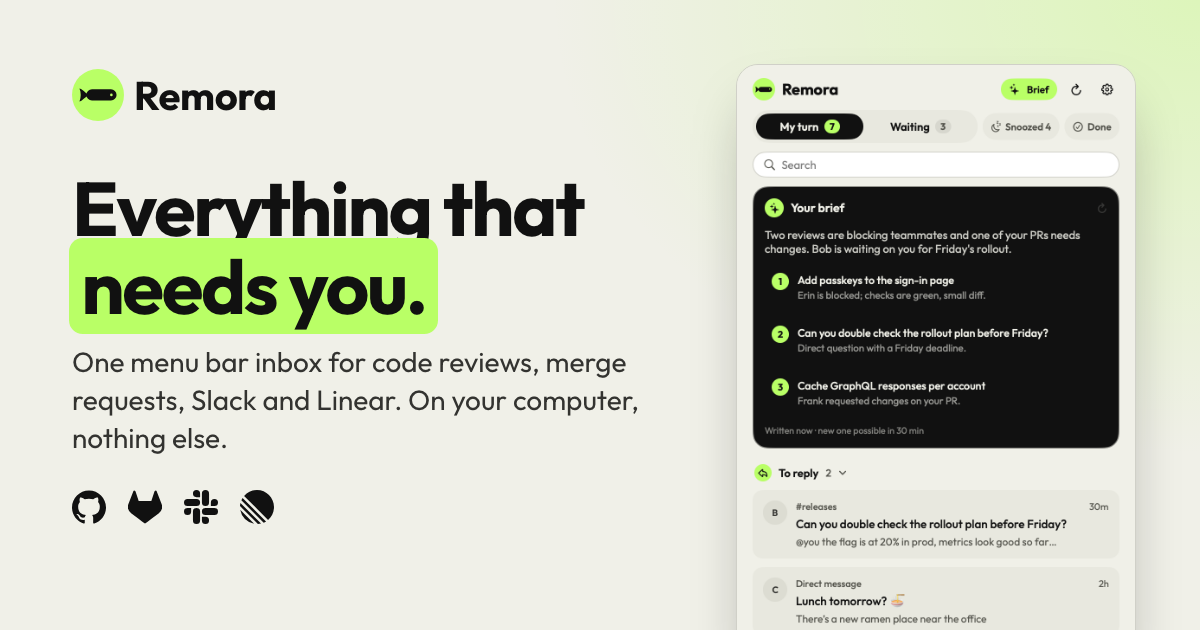
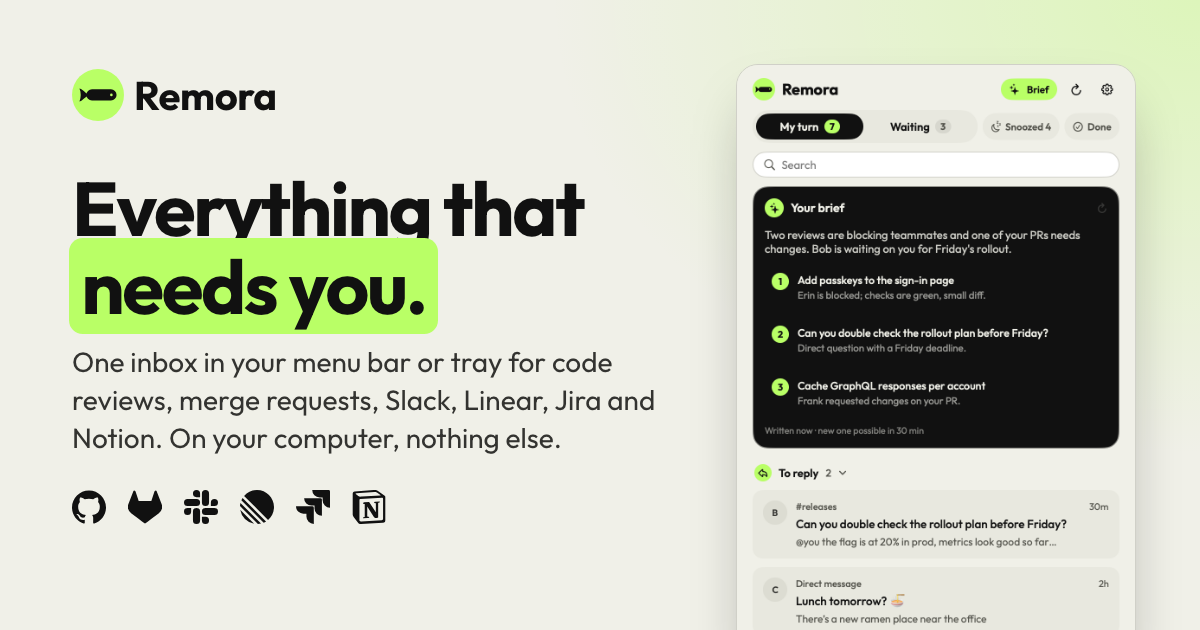
docs(site): the headline copy names all six tools, Jira and Notion included, and Linux (MKT-03)
Titles, meta descriptions, the hero, the facts strip ("6 tools"), llms.txt (with a Linux link), the social
cards (text, and the Jira and Notion logos, re-rendered), the docs' default description and home, and the
Windows installer's description said "GitHub, GitLab, Slack and Linear" and Mac or Windows only. One phrase
per language in build.py (WHAT, TOOLS) now feeds the site's copy. The docs sidebar calls the assistant "The
assistant": it also takes OpenAI-compatible servers.

Changed region(s): [[0.0617, 0.5429, 0.555, 0.7238], [0.2467, 0.754, 0.3392, 0.8444]]

diff --git a/site/public/fr/index.html b/site/public/fr/index.html
@@ -3,8 +3,8 @@
   <head>
     <meta charset="utf-8" />
     <meta name="viewport" content="width=device-width, initial-scale=1" />
-    <title>Remora — Boîte de réception GitHub, GitLab, Slack et Linear pour Mac et Windows</title>
-    <meta name="description" content="Relectures de code, merge requests, mentions Slack et tickets Linear dans une seule boîte, dans la barre des menus du Mac ou la zone de notification de Windows. Gratuit, open source, sans compte." />
+    <title>Remora — Une seule boîte pour GitHub, GitLab, Slack, Linear, Jira et Notion</title>
+    <meta name="description" content="Relectures de code, merge requests, mentions slack, tickets linear et jira et tâches notion dans une seule boîte, dans la barre des menus du Mac ou la zone de notification de Windows et Linux. Gratuit, open source, sans compte." />
     <link rel="canonical" href="https://triage.iscor.me/fr/" />
     <link rel="alternate" hreflang="fr" href="https://triage.iscor.me/fr/" />
     <link rel="alternate" hreflang="en" href="https://triage.iscor.me/en/" />
@@ -23,15 +23,15 @@
     <meta property="og:locale" content="fr_FR" />
     <meta property="og:locale:alternate" content="en_US" />
     <meta property="og:url" content="https://triage.iscor.me/fr/" />
-    <meta property="og:title" content="Remora — Boîte de réception GitHub, GitLab, Slack et Linear pour Mac et Windows" />
-    <meta property="og:description" content="Relectures de code, merge requests, mentions Slack et tickets Linear dans une seule boîte, dans la barre des menus du Mac ou la zone de notification de Windows. Gratuit, open source, sans compte." />
+    <meta property="og:title" content="Remora — Une seule boîte pour GitHub, GitLab, Slack, Linear, Jira et Notion" />
+    <meta property="og:description" content="Relectures de code, merge requests, mentions slack, tickets linear et jira et tâches notion dans une seule boîte, dans la barre des menus du Mac ou la zone de notification de Windows et Linux. Gratuit, open source, sans compte." />
     <meta property="og:image" content="https://triage.iscor.me/site/og.fr.png" />
     <meta property="og:image:width" content="1200" />
     <meta property="og:image:height" content="630" />
-    <meta property="og:image:alt" content="Remora : tout ce qui a besoin de vous, dans la barre des menus du Mac. La boîte avec réponses, relectures et tâches rangées par ce qu’il faut faire." />
+    <meta property="og:image:alt" content="Remora : tout ce qui a besoin de vous, dans la barre des menus ou la zone de notification. Une seule boîte pour relectures, merge requests, Slack, Linear, Jira et Notion, sur votre ordinateur." />
     <meta name="twitter:card" content="summary_large_image" />
-    <meta name="twitter:title" content="Remora — Boîte de réception GitHub, GitLab, Slack et Linear pour Mac et Windows" />
-    <meta name="twitter:description" content="Relectures de code, merge requests, mentions Slack et tickets Linear dans une seule boîte, dans la barre des menus du Mac ou la zone de notification de Windows. Gratuit, open source, sans compte." />
+    <meta name="twitter:title" content="Remora — Une seule boîte pour GitHub, GitLab, Slack, Linear, Jira et Notion" />
+    <meta name="twitter:description" content="Relectures de code, merge requests, mentions slack, tickets linear et jira et tâches notion dans une seule boîte, dans la barre des menus du Mac ou la zone de notification de Windows et Linux. Gratuit, open source, sans compte." />
     <meta name="twitter:image" content="https://triage.iscor.me/site/og.fr.png" />
     <script src="/site/site.js" defer></script>
     <script type="application/ld+json">
@@ -40,7 +40,7 @@
   "@type": "SoftwareApplication",
   "name": "Remora",
   "url": "https://triage.iscor.me/fr/",
-  "description": "Remora est une boîte de réception dans la barre des menus du Mac ou la zone de notification de Windows : relectures de code, merge requests, mentions Slack et tickets Linear, rangés par ce que vous avez à faire. Sur l’appareil, sans compte, seulement les outils autorisés.",
+  "description": "Remora est une boîte de réception dans la barre des menus du Mac ou la zone de notification de Windows et Linux : relectures de code, merge requests, mentions Slack, tickets Linear et Jira et tâches Notion, rangés par ce que vous avez à faire. Sur l’appareil, sans compte, seulement les outils autorisés.",
   "applicationCategory": "BusinessApplication",
   "applicationSubCategory": "Productivity",
   "operatingSystem": "macOS 14 or later, Windows 10 or 11, Linux",
@@ -150,7 +150,7 @@
           <div>
             <span class="eyebrow">Barre des menus · macOS · Windows</span>
             <h1 id="hero-title">Tout ce qui a<br /><span class="mark">besoin de vous.</span></h1>
-            <p class="lead">Rien de plus. Relectures de code, vos merge requests, mentions Slack et tickets Linear, dans une seule boîte de réception, dans la barre des menus ou la zone de notification. Rangés par ce que vous avez à faire, pas par leur provenance.</p>
+            <p class="lead">Rien de plus. Relectures de code, vos merge requests, mentions Slack, tickets Linear et Jira et tâches Notion, dans une seule boîte de réception, dans la barre des menus ou la zone de notification. Rangés par ce que vous avez à faire, pas par leur provenance.</p>
             <div class="ctas"><a class="btn btn-primary btn-lg" href="https://github.com/iGitScor/triage/releases/latest/download/Remora.dmg" data-download="mac">Télécharger pour Mac <svg width="20" height="20" viewBox="0 0 24 24" fill="none" stroke="currentColor" stroke-width="2" stroke-linecap="round" stroke-linejoin="round" aria-hidden="true"><path d="M12 3v14M7 12l5 5 5-5M5 21h14"/></svg></a><a class="btn btn-secondary btn-lg" href="https://github.com/iGitScor/triage/releases/latest/download/Remora-Setup.exe" data-download="windows">Télécharger pour Windows</a></div>
             <p class="cta-note">Gratuit et open source, sans compte. Mac : macOS 14 ou ultérieur ; la première fois, clic droit sur Remora → Ouvrir. Windows 10 ou 11, en aperçu : si SmartScreen prévient, Informations complémentaires → Exécuter quand même. Linux, en aperçu : AppImage ou .deb sur la page des versions.</p>
             <p class="notice"><svg width="18" height="18" viewBox="0 0 24 24" fill="none" stroke="currentColor" stroke-width="2" stroke-linecap="round" stroke-linejoin="round" aria-hidden="true"><circle cx="12" cy="12" r="9"/><path d="M12 11v5M12 8h.01"/></svg><span>Remora parle français et anglais, tout comme le tri sur l’appareil.</span></p>
@@ -167,7 +167,7 @@
       </section>
 
       <section class="section-tight" aria-label="Remora">
-        <div class="wrap"><div class="facts"><div class="fact"><strong>0</strong><span>serveur, compte ou traceur de notre part</span></div><div class="fact"><strong>5</strong><span>outils : GitHub, GitLab, Slack, Linear et Notion</span></div><div class="fact"><strong>5</strong><span>éléments par verbe, le reste replié</span></div><div class="fact"><strong>100 %</strong><span>du tri et du classement faits sur votre ordinateur</span></div></div></div>
+        <div class="wrap"><div class="facts"><div class="fact"><strong>0</strong><span>serveur, compte ou traceur de notre part</span></div><div class="fact"><strong>6</strong><span>outils : GitHub, GitLab, Slack, Linear, Jira et Notion</span></div><div class="fact"><strong>5</strong><span>éléments par verbe, le reste replié</span></div><div class="fact"><strong>100 %</strong><span>du tri et du classement faits sur votre ordinateur</span></div></div></div>
       </section>
 
       <section class="section" aria-labelledby="tabs-title">

diff --git a/site/public/en/index.html b/site/public/en/index.html
@@ -3,8 +3,8 @@
   <head>
     <meta charset="utf-8" />
     <meta name="viewport" content="width=device-width, initial-scale=1" />
-    <title>Remora — Menu bar inbox for GitHub, GitLab, Slack and Linear</title>
-    <meta name="description" content="Code reviews, merge requests, Slack mentions and Linear issues in one inbox in your Mac’s menu bar or the Windows tray, sorted by what to do. Free, open source, on-device, no account." />
+    <title>Remora — One inbox for GitHub, GitLab, Slack, Linear, Jira and Notion</title>
+    <meta name="description" content="Code reviews, merge requests, slack mentions, linear and jira issues and notion tasks in one inbox in your Mac’s menu bar or the Windows and Linux tray, sorted by what to do. Free, open source, on-device, no account." />
     <link rel="canonical" href="https://triage.iscor.me/en/" />
     <link rel="alternate" hreflang="en" href="https://triage.iscor.me/en/" />
     <link rel="alternate" hreflang="fr" href="https://triage.iscor.me/fr/" />
@@ -23,15 +23,15 @@
     <meta property="og:locale" content="en_US" />
     <meta property="og:locale:alternate" content="fr_FR" />
     <meta property="og:url" content="https://triage.iscor.me/en/" />
-    <meta property="og:title" content="Remora — Menu bar inbox for GitHub, GitLab, Slack and Linear" />
-    <meta property="og:description" content="Code reviews, merge requests, Slack mentions and Linear issues in one inbox in your Mac’s menu bar or the Windows tray, sorted by what to do. Free, open source, on-device, no account." />
+    <meta property="og:title" content="Remora — One inbox for GitHub, GitLab, Slack, Linear, Jira and Notion" />
+    <meta property="og:description" content="Code reviews, merge requests, slack mentions, linear and jira issues and notion tasks in one inbox in your Mac’s menu bar or the Windows and Linux tray, sorted by what to do. Free, open source, on-device, no account." />
     <meta property="og:image" content="https://triage.iscor.me/site/og.en.png" />
     <meta property="og:image:width" content="1200" />
     <meta property="og:image:height" content="630" />
-    <meta property="og:image:alt" content="Remora: everything that needs you, in your Mac’s menu bar. The inbox with replies, reviews and tasks sorted by what to do." />
+    <meta property="og:image:alt" content="Remora: everything that needs you, in your menu bar or tray. One inbox for code reviews, merge requests, Slack, Linear, Jira and Notion, on your computer." />
     <meta name="twitter:card" content="summary_large_image" />
-    <meta name="twitter:title" content="Remora — Menu bar inbox for GitHub, GitLab, Slack and Linear" />
-    <meta name="twitter:description" content="Code reviews, merge requests, Slack mentions and Linear issues in one inbox in your Mac’s menu bar or the Windows tray, sorted by what to do. Free, open source, on-device, no account." />
+    <meta name="twitter:title" content="Remora — One inbox for GitHub, GitLab, Slack, Linear, Jira and Notion" />
+    <meta name="twitter:description" content="Code reviews, merge requests, slack mentions, linear and jira issues and notion tasks in one inbox in your Mac’s menu bar or the Windows and Linux tray, sorted by what to do. Free, open source, on-device, no account." />
     <meta name="twitter:image" content="https://triage.iscor.me/site/og.en.png" />
     <script src="/site/site.js" defer></script>
     <script type="application/ld+json">
@@ -40,7 +40,7 @@
   "@type": "SoftwareApplication",
   "name": "Remora",
   "url": "https://triage.iscor.me/en/",
-  "description": "Remora is an inbox in your Mac’s menu bar or the Windows system tray: code reviews, merge requests, Slack mentions and Linear issues, sorted by what you have to do. On-device, no account, only the tools you allow.",
+  "description": "Remora is an inbox in your Mac’s menu bar or the system tray on Windows and Linux: code reviews, merge requests, Slack mentions, Linear and Jira issues and Notion tasks, sorted by what you have to do. On-device, no account, only the tools you allow.",
   "applicationCategory": "BusinessApplication",
   "applicationSubCategory": "Productivity",
   "operatingSystem": "macOS 14 or later, Windows 10 or 11, Linux",
@@ -150,7 +150,7 @@
           <div>
             <span class="eyebrow">Menu bar inbox · macOS · Windows</span>
             <h1 id="hero-title">Everything that<br /><span class="mark">needs you.</span></h1>
-            <p class="lead">Nothing that doesn’t. Code reviews, your merge requests, Slack mentions and Linear issues, in one inbox in your menu bar or system tray. Sorted by what you have to do, not by where it came from.</p>
+            <p class="lead">Nothing that doesn’t. Code reviews, your merge requests, Slack mentions, Linear and Jira issues and Notion tasks, in one inbox in your menu bar or system tray. Sorted by what you have to do, not by where it came from.</p>
             <div class="ctas"><a class="btn btn-primary btn-lg" href="https://github.com/iGitScor/triage/releases/latest/download/Remora.dmg" data-download="mac">Download for Mac <svg width="20" height="20" viewBox="0 0 24 24" fill="none" stroke="currentColor" stroke-width="2" stroke-linecap="round" stroke-linejoin="round" aria-hidden="true"><path d="M12 3v14M7 12l5 5 5-5M5 21h14"/></svg></a><a class="btn btn-secondary btn-lg" href="https://github.com/iGitScor/triage/releases/latest/download/Remora-Setup.exe" data-download="windows">Download for Windows</a></div>
             <p class="cta-note">Free and open source, no account. Mac: macOS 14 or later; the first time, right-click Remora → Open. Windows 10 or 11, in preview: if SmartScreen warns, More info → Run anyway. Linux, in preview: AppImage or .deb on the releases page.</p>
             <p class="notice"><svg width="18" height="18" viewBox="0 0 24 24" fill="none" stroke="currentColor" stroke-width="2" stroke-linecap="round" stroke-linejoin="round" aria-hidden="true"><circle cx="12" cy="12" r="9"/><path d="M12 11v5M12 8h.01"/></svg><span>Remora speaks English and French, and so does on-device sorting.</span></p>
@@ -167,7 +167,7 @@
       </section>
 
       <section class="section-tight" aria-label="Remora">
-        <div class="wrap"><div class="facts"><div class="fact"><strong>0</strong><span>servers, accounts or trackers of ours</span></div><div class="fact"><strong>5</strong><span>tools: GitHub, GitLab, Slack, Linear and Notion</span></div><div class="fact"><strong>5</strong><span>items per verb, the rest folded away</span></div><div class="fact"><strong>100%</strong><span>of sorting and ranking done on your computer</span></div></div></div>
+        <div class="wrap"><div class="facts"><div class="fact"><strong>0</strong><span>servers, accounts or trackers of ours</span></div><div class="fact"><strong>6</strong><span>tools: GitHub, GitLab, Slack, Linear, Jira and Notion</span></div><div class="fact"><strong>5</strong><span>items per verb, the rest folded away</span></div><div class="fact"><strong>100%</strong><span>of sorting and ranking done on your computer</span></div></div></div>
       </section>
 
       <section class="section" aria-labelledby="tabs-title">

diff --git a/docs/.vitepress/config.ts b/docs/.vitepress/config.ts
@@ -17,7 +17,7 @@ const guideEn: DefaultTheme.SidebarItem[] = [
       { text: 'The inbox', link: '/guide/inbox' },
       { text: 'Snooze and reminders', link: '/guide/snooze-and-reminders' },
       { text: 'Reviews', link: '/guide/reviews' },
-      { text: 'The assistant (Claude)', link: '/guide/assistant' },
+      { text: 'The assistant', link: '/guide/assistant' },
       { text: 'FAQ and troubleshooting', link: '/guide/faq' },
     ],
   },
@@ -79,7 +79,7 @@ const guideFr: DefaultTheme.SidebarItem[] = [
       { text: 'La boîte de réception', link: '/fr/guide/boite-de-reception' },
       { text: 'Reporter et rappels', link: '/fr/guide/reporter-et-rappels' },
       { text: 'Les relectures', link: '/fr/guide/relectures' },
-      { text: 'L’assistant (Claude)', link: '/fr/guide/assistant' },
+      { text: 'L’assistant', link: '/fr/guide/assistant' },
       { text: 'Questions et dépannage', link: '/fr/guide/faq' },
     ],
   },
@@ -133,8 +133,8 @@ const twinOf = (path: string) =>
 const urlOf = (path: string) => `${SITE}/docs/${path.replace(/(^|\/)index$/, '$1')}`
 
 const DESCRIPTIONS = {
-  en: 'Remora documentation: connecting GitHub, GitLab, Slack and Linear, the menu bar inbox, snooze and reminders, compliance and MDM, and writing a plugin.',
-  fr: 'Documentation de Remora : connecter GitHub, GitLab, Slack et Linear, la boîte de réception, reporter et rappels, conformité et MDM.',
+  en: 'Remora documentation: connecting GitHub, GitLab, Slack, Linear, Jira and Notion, the inbox in the menu bar or tray, snooze and reminders, compliance and MDM, and writing a plugin.',
+  fr: 'Documentation de Remora : connecter GitHub, GitLab, Slack, Linear, Jira et Notion, la boîte de réception, reporter et rappels, conformité et MDM.',
 }
 
 export default withMermaid(

diff --git a/site/public/index.html b/site/public/index.html
@@ -4,7 +4,7 @@
     <meta charset="utf-8" />
     <meta name="viewport" content="width=device-width, initial-scale=1" />
     <title>Remora — Choisissez votre langue · Choose your language</title>
-    <meta name="description" content="Remora est une boîte de réception dans la barre des menus du Mac ou la zone de notification de Windows : relectures de code, merge requests, mentions Slack et tickets Linear, rangés par ce que vous avez à faire. Sur l’appareil, sans compte, seulement les outils autorisés. Remora is an inbox in your Mac’s menu bar or the Windows system tray: code reviews, merge requests, Slack mentions and Linear issues, sorted by what you have to do. On-device, no account, only the tools you allow." />
+    <meta name="description" content="Remora est une boîte de réception dans la barre des menus du Mac ou la zone de notification de Windows et Linux : relectures de code, merge requests, mentions Slack, tickets Linear et Jira et tâches Notion, rangés par ce que vous avez à faire. Sur l’appareil, sans compte, seulement les outils autorisés. Remora is an inbox in your Mac’s menu bar or the system tray on Windows and Linux: code reviews, merge requests, Slack mentions, Linear and Jira issues and Notion tasks, sorted by what you have to do. On-device, no account, only the tools you allow." />
     <meta name="color-scheme" content="light dark" />
     <meta name="theme-color" media="(prefers-color-scheme: light)" content="#f0f0e8" />
     <meta name="theme-color" media="(prefers-color-scheme: dark)" content="#0e0e14" />

diff --git a/site/public/fr/fonctionnalites.html b/site/public/fr/fonctionnalites.html
@@ -28,7 +28,7 @@
     <meta property="og:image" content="https://triage.iscor.me/site/og.fr.png" />
     <meta property="og:image:width" content="1200" />
     <meta property="og:image:height" content="630" />
-    <meta property="og:image:alt" content="Remora : tout ce qui a besoin de vous, dans la barre des menus du Mac. La boîte avec réponses, relectures et tâches rangées par ce qu’il faut faire." />
+    <meta property="og:image:alt" content="Remora : tout ce qui a besoin de vous, dans la barre des menus ou la zone de notification. Une seule boîte pour relectures, merge requests, Slack, Linear, Jira et Notion, sur votre ordinateur." />
     <meta name="twitter:card" content="summary_large_image" />
     <meta name="twitter:title" content="Fonctionnalités — Remora, la boîte de réception des développeurs" />
     <meta name="twitter:description" content="Des verbes plutôt que des applis, Terminé et Épingler, reporter avec une raison, des rappels depuis la barre des menus ou un raccourci, préparer ses relectures. Tout Remora." />

diff --git a/site/public/fr/confidentialite.html b/site/public/fr/confidentialite.html
@@ -28,7 +28,7 @@
     <meta property="og:image" content="https://triage.iscor.me/site/og.fr.png" />
     <meta property="og:image:width" content="1200" />
     <meta property="og:image:height" content="630" />
-    <meta property="og:image:alt" content="Remora : tout ce qui a besoin de vous, dans la barre des menus du Mac. La boîte avec réponses, relectures et tâches rangées par ce qu’il faut faire." />
+    <meta property="og:image:alt" content="Remora : tout ce qui a besoin de vous, dans la barre des menus ou la zone de notification. Une seule boîte pour relectures, merge requests, Slack, Linear, Jira et Notion, sur votre ordinateur." />
     <meta name="twitter:card" content="summary_large_image" />
     <meta name="twitter:title" content="Confidentialité et conformité — Remora n’envoie rien ailleurs" />
     <meta name="twitter:description" content="Ni serveur, ni compte, ni télémétrie : Remora ne parle qu’aux outils autorisés, IA désactivée par défaut, politique verrouillable par MDM. Chaque flux." />

diff --git a/site/public/en/privacy.html b/site/public/en/privacy.html
@@ -28,7 +28,7 @@
     <meta property="og:image" content="https://triage.iscor.me/site/og.en.png" />
     <meta property="og:image:width" content="1200" />
     <meta property="og:image:height" content="630" />
-    <meta property="og:image:alt" content="Remora: everything that needs you, in your Mac’s menu bar. The inbox with replies, reviews and tasks sorted by what to do." />
+    <meta property="og:image:alt" content="Remora: everything that needs you, in your menu bar or tray. One inbox for code reviews, merge requests, Slack, Linear, Jira and Notion, on your computer." />
     <meta name="twitter:card" content="summary_large_image" />
     <meta name="twitter:title" content="Privacy &amp; compliance — Remora sends nothing but to your tools" />
     <meta name="twitter:description" content="No server, no account, no telemetry: Remora talks only to the tools you allow, with AI off by default and a policy IT can lock with MDM. Every data flow." />

diff --git a/site/public/en/features.html b/site/public/en/features.html
@@ -28,7 +28,7 @@
     <meta property="og:image" content="https://triage.iscor.me/site/og.en.png" />
     <meta property="og:image:width" content="1200" />
     <meta property="og:image:height" content="630" />
-    <meta property="og:image:alt" content="Remora: everything that needs you, in your Mac’s menu bar. The inbox with replies, reviews and tasks sorted by what to do." />
+    <meta property="og:image:alt" content="Remora: everything that needs you, in your menu bar or tray. One inbox for code reviews, merge requests, Slack, Linear, Jira and Notion, on your computer." />
     <meta name="twitter:card" content="summary_large_image" />
     <meta name="twitter:title" content="Features — Remora, the menu bar inbox for developers" />
     <meta name="twitter:description" content="Verbs instead of apps, Done and Pin, snooze with a reason, reminders from the menu bar or a shortcut, review prep and sessions, a waiting assistant. All of Remora." />

diff --git a/site/og/card.js b/site/og/card.js
@@ -1,11 +1,11 @@
 var copy = {
   en: {
     title: 'Everything that <span class="mark">needs you.</span>',
-    sub: 'One menu bar inbox for code reviews, merge requests, Slack and Linear. On your computer, nothing else.',
+    sub: 'One inbox in your menu bar or tray for code reviews, merge requests, Slack, Linear, Jira and Notion. On your computer, nothing else.',
   },
   fr: {
     title: 'Tout ce qui a <span class="mark">besoin de vous.</span>',
-    sub: 'Une seule boîte dans la barre des menus pour relectures, merge requests, Slack et Linear. Sur votre ordinateur, rien d’autre.',
+    sub: 'Une seule boîte, barre des menus ou zone de notification, pour relectures, merge requests, Slack, Linear, Jira et Notion. Sur votre ordinateur, rien d’autre.',
   },
 }
 var params = new URLSearchParams(location.search)

diff --git a/site/og/card.html b/site/og/card.html
@@ -14,7 +14,7 @@
         <span class="brand-remora"><span class="brand-disc" id="disc"></span><span class="brand-name">Remora</span></span>
         <h1 id="title"></h1>
         <p id="sub"></p>
-        <div class="og-logos"><span class="logo logo-github"></span><span class="logo logo-gitlab"></span><span class="logo logo-slack"></span><span class="logo logo-linear"></span></div>
+        <div class="og-logos"><span class="logo logo-github"></span><span class="logo logo-gitlab"></span><span class="logo logo-slack"></span><span class="logo logo-linear"></span><span class="logo logo-jira"></span><span class="logo logo-notion"></span></div>
       </div>
       <div class="og-shot"><img id="shot" alt="" /></div>
     </div>

diff --git a/site/build.py b/site/build.py
@@ -19,6 +19,12 @@ ROOT = pathlib.Path(__file__).parent / "public"
 ORIGIN = "https://triage.iscor.me"
 REPO = "https://github.com/iGitScor/triage"
 DMG = REPO + "/releases/latest/download/Remora.dmg"
+# What Remora gathers and where it lives, said once per language: titles, descriptions, the hero, llms.txt.
+WHAT = {
+    "en": "code reviews, merge requests, Slack mentions, Linear and Jira issues and Notion tasks",
+    "fr": "relectures de code, merge requests, mentions Slack, tickets Linear et Jira et tâches Notion",
+}
+TOOLS = {"en": "GitHub, GitLab, Slack, Linear, Jira and Notion", "fr": "GitHub, GitLab, Slack, Linear, Jira et Notion"}
 EXE = REPO + "/releases/latest/download/Remora-Setup.exe"
 # The released version, from the source `make version` sets, so the page's structured data never goes stale.
 VERSION = plistlib.loads((pathlib.Path(__file__).parent.parent / "macos/Resources/Info.plist").read_bytes())[
@@ -92,7 +98,7 @@ T = {
     "en": {
         "locale": "en_US",
         "tagline": "Everything that needs you. Nothing that doesn’t.",
-        "description": "Remora is an inbox in your Mac’s menu bar or the Windows system tray: code reviews, merge requests, Slack mentions and Linear issues, sorted by what you have to do. On-device, no account, only the tools you allow.",
+        "description": f"Remora is an inbox in your Mac’s menu bar or the system tray on Windows and Linux: {WHAT['en']}, sorted by what you have to do. On-device, no account, only the tools you allow.",
         "skip": "Skip to content",
         "nav": {"features": "Features", "privacy": "Privacy & compliance"},
         "nav_label": "Main navigation",
@@ -139,11 +145,11 @@ T = {
             "Tool logos: Simple Icons (CC0) · Outfit font (OFL)",
         ),
         "clock": "Thu 9:41",
-        "og_alt": "Remora: everything that needs you, in your Mac’s menu bar. The inbox with replies, reviews and tasks sorted by what to do.",
+        "og_alt": "Remora: everything that needs you, in your menu bar or tray. One inbox for code reviews, merge requests, Slack, Linear, Jira and Notion, on your computer.",
         "seo": {
             "home": (
-                "Remora — Menu bar inbox for GitHub, GitLab, Slack and Linear",
-                "Code reviews, merge requests, Slack mentions and Linear issues in one inbox in your Mac’s menu bar or the Windows tray, sorted by what to do. Free, open source, on-device, no account.",
+                f"Remora — One inbox for {TOOLS['en']}",
+                f"{WHAT['en'].capitalize()} in one inbox in your Mac’s menu bar or the Windows and Linux tray, sorted by what to do. Free, open source, on-device, no account.",
             ),
             "features": (
                 "Features — Remora, the menu bar inbox for developers",
@@ -164,7 +170,7 @@ T = {
     "fr": {
         "locale": "fr_FR",
         "tagline": "Tout ce qui a besoin de vous. Rien de plus.",
-        "description": "Remora est une boîte de réception dans la barre des menus du Mac ou la zone de notification de Windows : relectures de code, merge requests, mentions Slack et tickets Linear, rangés par ce que vous avez à faire. Sur l’appareil, sans compte, seulement les outils autorisés.",
+        "description": f"Remora est une boîte de réception dans la barre des menus du Mac ou la zone de notification de Windows et Linux : {WHAT['fr']}, rangés par ce que vous avez à faire. Sur l’appareil, sans compte, seulement les outils autorisés.",
         "skip": "Aller au contenu",
         "nav": {"features": "Fonctionnalités", "privacy": "Confidentialité et conformité"},
         "nav_label": "Navigation principale",
@@ -211,11 +217,11 @@ T = {
             "Logos des outils : Simple Icons (CC0) · police Outfit (OFL)",
         ),
         "clock": "jeu. 9:41",
-        "og_alt": "Remora : tout ce qui a besoin de vous, dans la barre des menus du Mac. La boîte avec réponses, relectures et tâches rangées par ce qu’il faut faire.",
+        "og_alt": "Remora : tout ce qui a besoin de vous, dans la barre des menus ou la zone de notification. Une seule boîte pour relectures, merge requests, Slack, Linear, Jira et Notion, sur votre ordinateur.",
         "seo": {
             "home": (
-                "Remora — Boîte de réception GitHub, GitLab, Slack et Linear pour Mac et Windows",
-                "Relectures de code, merge requests, mentions Slack et tickets Linear dans une seule boîte, dans la barre des menus du Mac ou la zone de notification de Windows. Gratuit, open source, sans compte.",
+                f"Remora — Une seule boîte pour {TOOLS['fr']}",
+                f"{WHAT['fr'].capitalize()} dans une seule boîte, dans la barre des menus du Mac ou la zone de notification de Windows et Linux. Gratuit, open source, sans compte.",
             ),
             "features": (
                 "Fonctionnalités — Remora, la boîte de réception des développeurs",
@@ -478,14 +484,14 @@ def home(lang: str) -> str:
         c = dict(
             eyebrow="Menu bar inbox · macOS · Windows",
             h1='Everything that<br /><span class="mark">needs you.</span>',
-            lead="Nothing that doesn’t. Code reviews, your merge requests, Slack mentions and Linear issues, in one inbox in your menu bar or system tray. Sorted by what you have to do, not by where it came from.",
+            lead="Nothing that doesn’t. Code reviews, your merge requests, Slack mentions, Linear and Jira issues and Notion tasks, in one inbox in your menu bar or system tray. Sorted by what you have to do, not by where it came from.",
             secondary="Privacy & compliance",
             note="Free and open source, no account. Mac: macOS 14 or later; the first time, right-click Remora → Open. Windows 10 or 11, in preview: if SmartScreen warns, More info → Run anyway. Linux, in preview: AppImage or .deb on the releases page.",
             notice="Remora speaks English and French, and so does on-device sorting.",
             desk_note="The real app, with sample data. One fish in the menu bar, one count per tool.",
             facts=[
                 ("0", "servers, accounts or trackers of ours"),
-                ("5", "tools: GitHub, GitLab, Slack, Linear and Notion"),
+                ("6", f"tools: {TOOLS['en']}"),
                 ("5", "items per verb, the rest folded away"),
                 ("100%", "of sorting and ranking done on your computer"),
             ],
@@ -632,14 +638,14 @@ def home(lang: str) -> str:
         c = dict(
             eyebrow="Barre des menus · macOS · Windows",
             h1='Tout ce qui a<br /><span class="mark">besoin de vous.</span>',
-            lead="Rien de plus. Relectures de code, vos merge requests, mentions Slack et tickets Linear, dans une seule boîte de réception, dans la barre des menus ou la zone de notification. Rangés par ce que vous avez à faire, pas par leur provenance.",
+            lead="Rien de plus. Relectures de code, vos merge requests, mentions Slack, tickets Linear et Jira et tâches Notion, dans une seule boîte de réception, dans la barre des menus ou la zone de notification. Rangés par ce que vous avez à faire, pas par leur provenance.",
             secondary="Confidentialité et conformité",
             note="Gratuit et open source, sans compte. Mac : macOS 14 ou ultérieur ; la première fois, clic droit sur Remora → Ouvrir. Windows 10 ou 11, en aperçu : si SmartScreen prévient, Informations complémentaires → Exécuter quand même. Linux, en aperçu : AppImage ou .deb sur la page des versions.",
             notice="Remora parle français et anglais, tout comme le tri sur l’appareil.",
             desk_note="La vraie app, avec des données d’exemple. Un poisson dans la barre des menus, un compteur par outil.",
             facts=[
                 ("0", "serveur, compte ou traceur de notre part"),
-                ("5", "outils : GitHub, GitLab, Slack, Linear et Notion"),
+                ("6", f"outils : {TOOLS['fr']}"),
                 ("5", "éléments par verbe, le reste replié"),
                 ("100 %", "du tri et du classement faits sur votre ordinateur"),
             ],
@@ -1781,8 +1787,8 @@ def llms() -> str:
 
 Remora is a free, open-source (GPL-3.0-or-later) macOS menu bar app. It groups items by what you have to do
 (To reply, To review, To fix, Ready to merge, To do, Reminders, To read, Waiting on others), runs its sorting and
-ranking on the device, and only talks to the tools the user or their organization allows. A Windows tray app is in
-preview. French pages: {ORIGIN}/fr/.
+ranking on the device, and only talks to the tools the user or their organization allows: {TOOLS["en"]}. A tray
+app for Windows and Linux is in preview. French pages: {ORIGIN}/fr/.
 
 ## Pages
 
@@ -1791,6 +1797,7 @@ preview. French pages: {ORIGIN}/fr/.
 
 - [Download for Mac]({DMG})
 - [Download for Windows (preview)]({EXE})
+- [Linux (preview): AppImage and .deb]({ORIGIN}/docs/guide/faq#can-i-use-it-on-linux)
 - [Source code]({REPO})
 - [Documentation]({ORIGIN}/docs/): the user guide, IT and compliance, and writing a plugin
 - [Connecting your tools]({ORIGIN}/docs/guide/connecting-tools)

diff --git a/docs/fr/index.md b/docs/fr/index.md
@@ -1,12 +1,12 @@
 ---
 layout: home
 title: Documentation
-description: Utiliser Remora, la boîte de réception pour GitHub, GitLab, Slack, Linear, Jira et Notion dans la barre des menus du Mac ou la zone de notification de Windows ; la déployer et la verrouiller côté DSI.
+description: Utiliser Remora, la boîte de réception pour GitHub, GitLab, Slack, Linear, Jira et Notion dans la barre des menus du Mac ou la zone de notification de Windows et Linux ; la déployer et la verrouiller côté DSI.
 
 hero:
   name: Remora
   text: Tout ce qui a besoin de vous. Rien de plus.
-  tagline: Une seule boîte de réception dans la barre des menus ou la zone de notification de Windows pour les relectures, merge requests, Slack, Linear, Jira et Notion, rangée par ce que vous avez à faire. Elle tourne sur votre ordinateur et ne parle qu’aux outils autorisés.
+  tagline: Une seule boîte de réception dans la barre des menus ou la zone de notification de Windows et Linux pour les relectures, merge requests, Slack, Linear, Jira et Notion, rangée par ce que vous avez à faire. Elle tourne sur votre ordinateur et ne parle qu’aux outils autorisés.
   image:
     src: /favicon.svg
     alt: Remora
